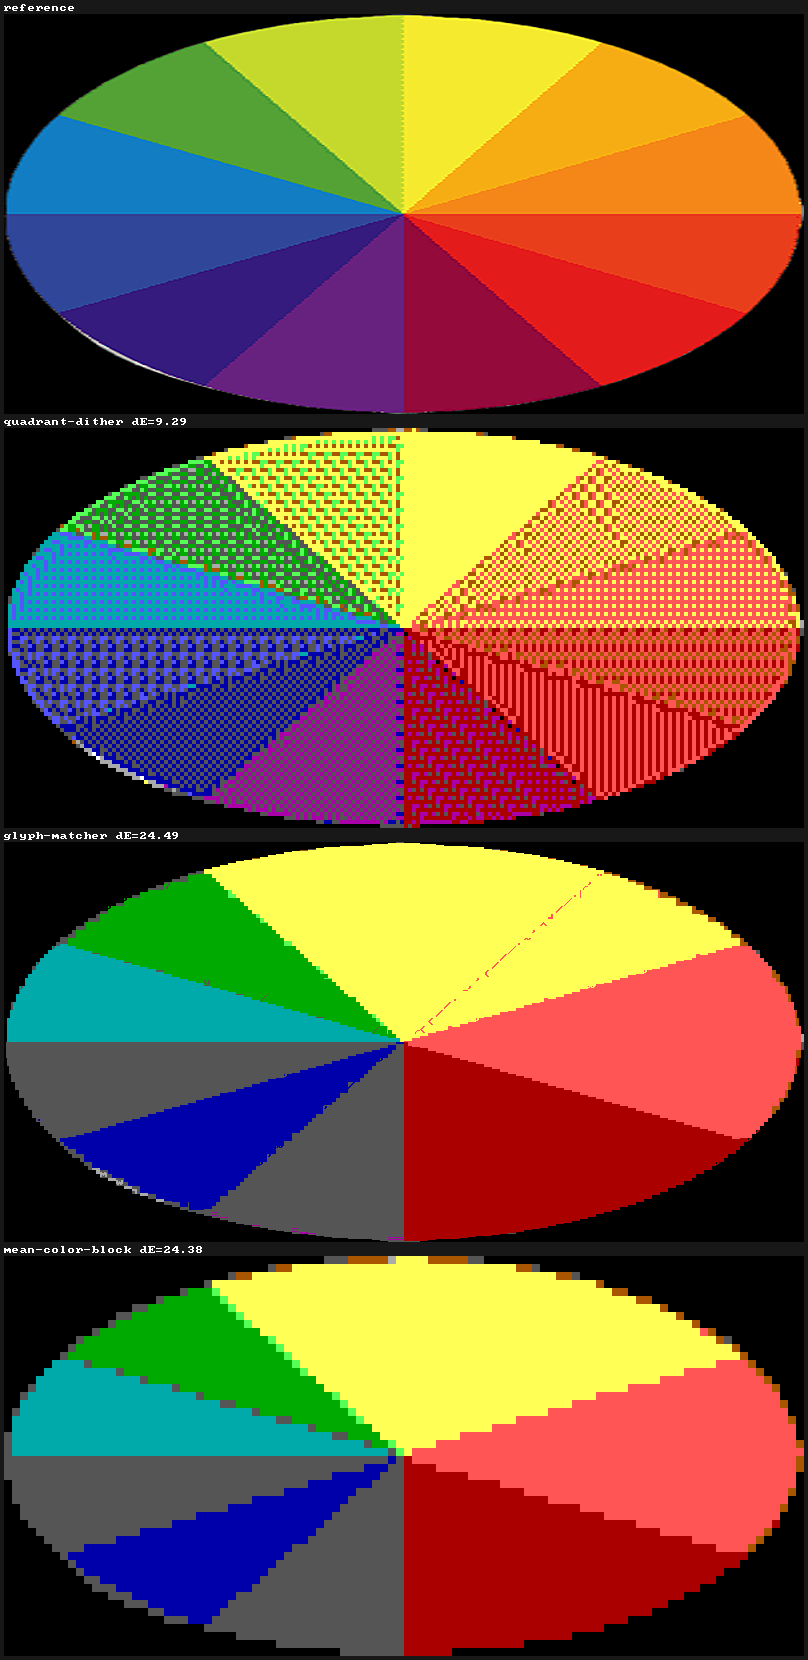
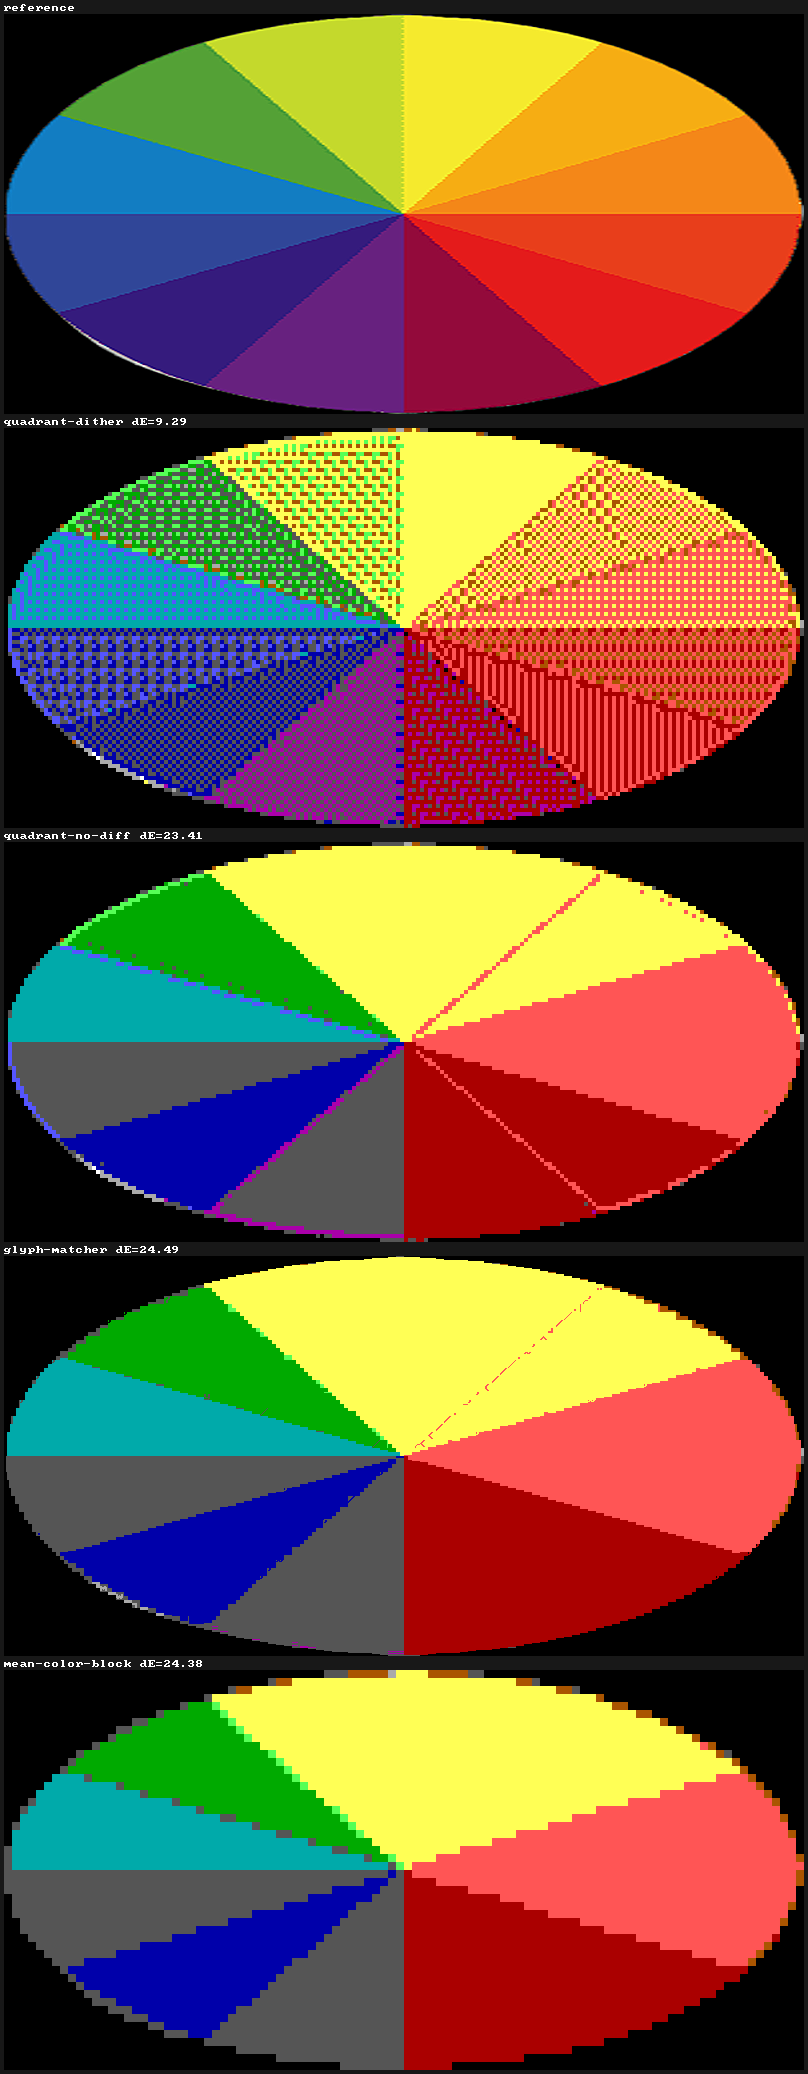
Add a diffusion-ablated control arm; deconfound the standings
A dither-vs-matcher comparison conflates two variables: the cell
representation (2x2 quadrants vs 8x8 glyphs) and error diffusion (the
dither has it, the matcher does not). The previous findings narrative
attributed the whole gap to representation - wrong, as wbrown pointed
out in review. The harness now carries a quadrant-no-diff control arm
(the dither's per-block search with diffusion off) so the factors read
separately.

Deconfounded results: the representations are at near parity. At 16
colors they tie on every synthetic ramp, with 2x2 ahead 5-11% on
photos; at 256 colors the matcher ties or wins on four of six images
(mandrill 5.57 vs 5.64). This is consistent with the original
research's conclusion that 256 colors close the representation gap.
Diffusion is the dominant factor - worth 2-4x on the blurred-dE metric,
growing with palette size, and essentially the dither's entire
practical lead. Docs rewritten accordingly; matcher-side error
diffusion is now the top roadmap item, with a quantified ceiling.
Comparison images updated to include the control arm.

diff --git a/diffusion_quality_test.go b/diffusion_quality_test.go
@@ -494,6 +494,20 @@ func nearestFg(r *Renderer, c RGB) RGB {
 	return nearest
 }
 
+// noDiffusionQuadrant is the diffusion-ablated control arm: the same
+// per-block search as the quadrant dither with no error diffusion.
+// Against the glyph matcher (also undiffused) it isolates the
+// REPRESENTATION variable — 2x2 quadrants vs 8x8 glyphs — and against
+// the full dither it isolates diffusion. Without it, dither-vs-matcher
+// comparisons conflate the two.
+type noDiffusionQuadrant struct{ r *Renderer }
+
+func (n noDiffusionQuadrant) SourcePixelsPerCell() int { return 2 }
+
+func (n noDiffusionQuadrant) Convert(img *imageutil.RGBAImage, edges *imageutil.GrayImage) [][]BlockRune {
+	return ditherNoDiffusion(n.r, img, edges)
+}
+
 // meanColorConverter is the floor any 8x8 glyph matcher must beat: each
 // cell becomes a full block in the palette color nearest the cell mean.
 type meanColorConverter struct{ r *Renderer }
@@ -553,6 +567,13 @@ func TestConverterArms(t *testing.T) {
 			r := NewRenderer(WithPalette(pal))
 			arms := []converterArm{
 				quadrantArm("quadrant-dither", r),
+				{
+					name: "quadrant-no-diff",
+					conv: noDiffusionQuadrant{r},
+					render: func(blocks [][]BlockRune) *imageutil.RGBAImage {
+						return renderBlocksToImageScaled(blocks, scorePxPerCell)
+					},
+				},
 				fontArm("glyph-matcher", NewGlyphMatcher(r, font), font),
 				fontArm("mean-color-block", meanColorConverter{r}, font),
 			}

diff --git a/docs/glyph-research/README.md b/docs/glyph-research/README.md
@@ -219,65 +219,69 @@ the original research validated); `TestGlyphMatcherExactGlyph` pins the
 promise the old scorer never kept: a cell that IS a glyph matches that
 glyph.
 
-Current standings (blurred ΔE, σ = 1 cell, ansi16, `TestConverterArms`,
-measured with the corrected nearest-color tables):
+A dither-vs-matcher comparison conflates two variables: the cell
+REPRESENTATION (2×2 quadrants vs 8×8 glyphs) and ERROR DIFFUSION (the
+dither has it, the matcher does not yet). The harness therefore carries
+a diffusion-ablated control arm (`quadrant-no-diff`: the same per-block
+search as the dither, diffusion off), so the two factors can be read
+separately. Standings (blurred ΔE, σ = 1 cell, `TestConverterArms`,
+corrected nearest-color tables):
 
-| image | quadrant dither (2×2) | glyph matcher (8×8) | mean-color blocks (8×8) |
-|---|---|---|---|
-| gray-gradient | 2.52 | 6.58 | 6.58 |
-| fleshtone | 13.40 | 29.34 | 29.18 |
-| color-ramp | 9.65 | 23.69 | 23.61 |
-| fox | 7.69 | 17.08 | 17.63 |
-| mandrill | 11.56 | 15.84 | 17.22 |
-| wheel | 9.29 | 24.49 | 24.38 |
+ansi16:
 
-This sharpens the original lab's headline finding: at 16 colors the 2×2
-quadrant dither wins everywhere by roughly 2×, and exhaustive glyph
-matching beats the flat mean-color block only modestly on photos
-(mandrill −8%, fox −3%) while tying it on smooth ramps — one (fg, bg)
-pair per 8×8 cell cannot follow a gradient no matter which glyph is
-chosen. The medium, not the matching, is the constraint. (An earlier
-draft of this table showed the matcher far ahead of the baseline; that
-gap was an artifact of the baseline reading the then-broken
-nearest-color tables.)
+| image | 2×2 dither | 2×2 no-diffusion | 8×8 matcher | 8×8 flat blocks |
+|---|---|---|---|---|
+| gray-gradient | 2.52 | 6.58 | 6.58 | 6.58 |
+| fleshtone | 13.40 | 29.31 | 29.34 | 29.18 |
+| color-ramp | 9.65 | 23.69 | 23.69 | 23.61 |
+| fox | 7.69 | 15.32 | 17.08 | 17.63 |
+| mandrill | 11.56 | 14.92 | 15.82 | 17.22 |
+| wheel | 9.29 | 23.41 | 24.49 | 24.38 |
 
-And at 256 colors (`TestConverterArms/ansi256`):
+ansi256:
 
-| image | quadrant dither (2×2) | glyph matcher (8×8) | mean-color blocks (8×8) |
-|---|---|---|---|
-| gray-gradient | 0.29 | 0.36 | 0.38 |
-| fleshtone | 3.97 | 10.82 | 11.06 |
-| color-ramp | 2.70 | 7.77 | 8.09 |
-| fox | 3.81 | 9.18 | 9.77 |
-| mandrill | 3.52 | 5.57 | 7.17 |
-| wheel | 2.40 | 11.39 | 11.47 |
+| image | 2×2 dither | 2×2 no-diffusion | 8×8 matcher | 8×8 flat blocks |
+|---|---|---|---|---|
+| gray-gradient | 0.29 | 0.36 | 0.36 | 0.38 |
+| fleshtone | 3.97 | 11.00 | 10.82 | 11.06 |
+| color-ramp | 2.70 | 7.81 | 7.77 | 8.09 |
+| fox | 3.81 | 7.93 | 9.18 | 9.77 |
+| mandrill | 3.52 | 5.64 | 5.57 | 7.17 |
+| wheel | 2.40 | 10.54 | 11.39 | 11.47 |
 
-This **refines** the original lab's "256 colors largely close the gap"
-finding rather than confirming it. Under the blurred-ΔE referee,
-256 colors improve everything 3–4×, and the matcher's advantage over
-flat blocks grows where there is texture (mandrill −22% vs −8% at 16
-colors) — but the quadrant dither improves even faster, so the
-*relative* gap to 2×2 widens (mandrill ratio 1.37→1.58, fox
-2.22→2.41). Error diffusion exploits a finer palette better than
-per-cell color pairs can. The old conclusion was a visual judgment
-made without a quantitative referee: both arms improving 3× reads as
-"the gap closed" to the eye. Two caveats keep the door open for
-glyphs: the matcher has no error diffusion of its own, and a
-tone-oriented metric structurally favors diffusion — a
-structure-sensitive metric, or the hybrid below, may read differently.
+Reading the two factors apart:
+
+- **Representation (2×2 no-diffusion vs 8×8 matcher, apples to
+  apples):** near parity. At 16 colors they tie on every synthetic ramp
+  and 2×2 leads by 5–11% on photos. At 256 colors the matcher *ties or
+  wins* on four of six images (mandrill 5.57 vs 5.64, fleshtone 10.82
+  vs 11.00) and trails moderately on fox and the wheel. This is
+  consistent with the original lab's conclusion that 256 colors close
+  the representation gap — an earlier draft of this section claimed the
+  opposite by comparing the diffused dither against the undiffused
+  matcher and attributing the whole gap to representation.
+- **Diffusion:** the dominant factor, worth 2–4× on this metric
+  (mandrill-256: 5.64 → 3.52 from diffusion alone), and it grows with
+  palette size because diffusion exploits finer palettes. The full
+  dither's practical lead over the matcher is essentially this term.
+
+Which makes the highest-leverage next step obvious: give the matcher
+error diffusion. The representation is already competitive; the missing
+2–4× is a mechanism, not a limitation of glyphs.
 
 ## Where the matching should go next
 
-1. **Hybrid cells.** Glyph matching where structure is high and color
+1. **Error diffusion for the matcher.** The control arm shows diffusion
+   is worth 2–4× on the blurred-ΔE metric and is essentially the entire
+   practical lead of the 2×2 dither — while the representations are at
+   parity at 256 colors. Diffusing each cell's residual (against its
+   rendered glyph) into neighboring cells gives the matcher the same
+   lever; the quantified ceiling makes this the highest-leverage
+   experiment in the lab.
+2. **Hybrid cells.** Glyph matching where structure is high and color
    variance low (line art, edges); 2×2 quadrant dithering elsewhere.
    The `edges` argument of `Convert` is currently unused — it is the
-   natural input for the mode decision. The 256-color standings make
-   this the live question: the matcher's wins are localized to
-   texture/structure, exactly where a hybrid would deploy it.
-2. **Error diffusion for the matcher.** The dither's widening lead at
-   256 colors is diffusion exploiting the finer palette. Diffusing each
-   cell's residual (against its rendered glyph) into neighboring cells
-   would give the matcher the same lever.
+   natural input for the mode decision.
 3. **A structure-sensitive referee.** Blurred ΔE measures tone; glyph
    matching's pitch is structure. An SSIM-like arm in the harness would
    test whether the matcher preserves edges better than the numbers

diff --git a/CLAUDE.md b/CLAUDE.md
@@ -402,13 +402,14 @@ similarity scorer was deliberately not ported — see the lab README for
 the ideal-mask/popcount formulation that should replace it.
 
 Key findings so far:
-- 2×2 blocks outperform 8×8 character matching at every palette size;
-  both spend one glyph + two colors per cell, but 8×8 must cover 16×
-  more source pixels with them. The old "256 colors largely close the
-  gap" reading did not survive quantitative measurement: 256 colors
-  improve both modes 3–4×, but the dither improves faster (diffusion
-  exploits the finer palette), so the relative gap widens — see the
-  standings tables in `docs/glyph-research/README.md`.
+- The 2×2-vs-8×8 question decomposes into two factors, and the harness
+  carries a diffusion-ablated control arm to keep them apart.
+  **Representation**: 2×2 quadrants and exhaustive 8×8 glyph matching
+  are near parity — the matcher ties or wins on most images at 256
+  colors, consistent with the original research. **Diffusion**: worth
+  2–4× on the blurred-ΔE metric, growing with palette size, and the
+  full dither's entire practical lead — the matcher does not have it
+  yet. See the standings tables in `docs/glyph-research/README.md`.
 - Simple heuristics (DominantColorSelector) are near-optimal at 256
   colors — validated by true exhaustive search. The constraint is the
   medium, not the algorithms.
